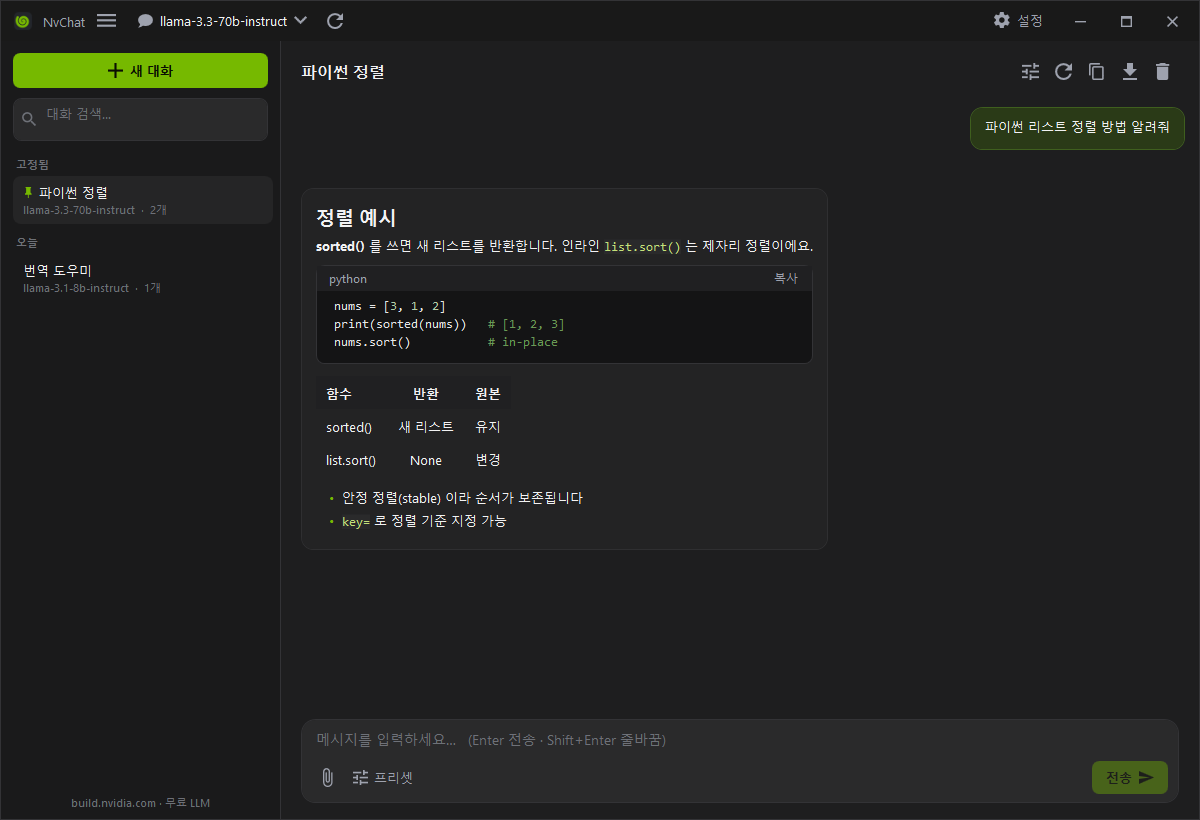
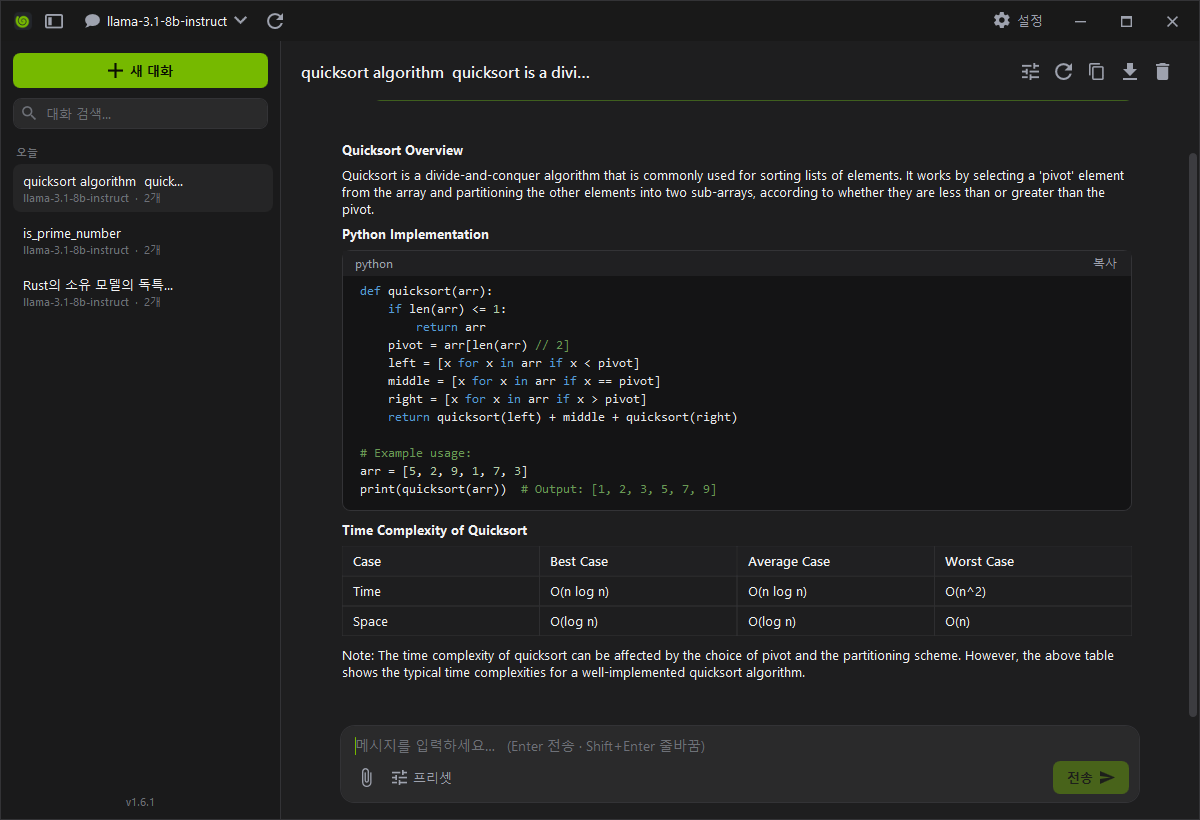
docs: add streaming demo gif + SmartScreen first-run note
- 홍보용 스크린샷을 채워진 상태(코드블록/표/사이드바)로 교체
- 실시간 마크다운 스트리밍 데모 GIF 추가
- 코드 서명이 없어 뜨는 SmartScreen 경고 대처법 안내 추가

diff --git a/README.ko.md b/README.ko.md
@@ -18,6 +18,12 @@
 
 <img src="docs/screenshot.png" alt="NvChat 스크린샷" width="880">
 
+<br>
+
+<img src="docs/demo.gif" alt="실시간 마크다운 스트리밍" width="720">
+
+<sub>답변이 스트리밍되는 도중에도 마크다운이 실시간으로 렌더링됩니다.</sub>
+
 </div>
 
 ---
@@ -47,6 +53,8 @@
 
 [**Releases**](https://github.com/akon47/NvChat/releases/latest) 에서 `NvChat.exe` **파일 하나**만 내려받아 실행하면 됩니다.
 .NET 런타임이 없어도 실행되는 self-contained 단일 실행 파일입니다. (Windows x64)
+
+> **첫 실행:** 코드 서명이 없어 Windows SmartScreen 이 "Windows의 PC 보호" 창을 띄울 수 있습니다. **추가 정보 → 실행**을 누르세요.
 
 > 자동 업데이트가 포함된 버전부터는 새 버전이 앱 안에서 안내되므로 다시 수동으로 받을 필요가 없습니다.
 

diff --git a/README.md b/README.md
@@ -18,6 +18,12 @@ Streaming chat · saved conversations · live markdown/code rendering · reasoni
 
 <img src="docs/screenshot.png" alt="NvChat screenshot" width="880">
 
+<br>
+
+<img src="docs/demo.gif" alt="Live markdown streaming" width="720">
+
+<sub>Markdown renders live as the answer streams in.</sub>
+
 </div>
 
 ---
@@ -47,6 +53,8 @@ Streaming chat · saved conversations · live markdown/code rendering · reasoni
 
 Grab the single `NvChat.exe` from [**Releases**](https://github.com/akon47/NvChat/releases/latest) and run it.
 It's a self-contained single file that runs even without the .NET runtime installed. (Windows x64)
+
+> **First run:** the app isn't code-signed, so Windows SmartScreen may show a blue "Windows protected your PC" prompt. Click **More info → Run anyway**.
 
 > Once you're on a build with auto-update, new versions are offered inside the app — no need to re-download manually.
 